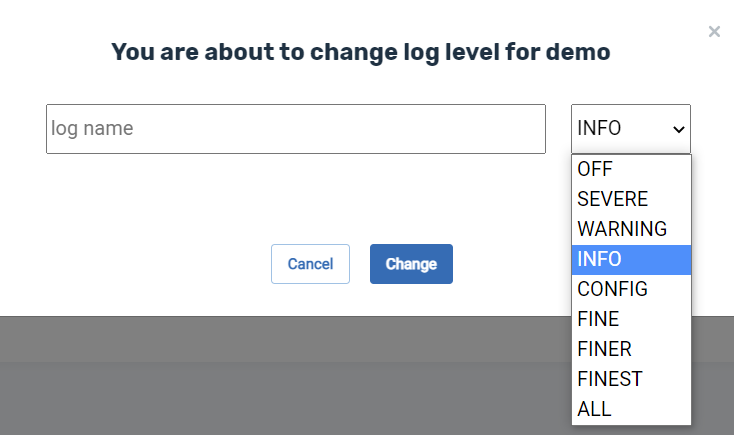
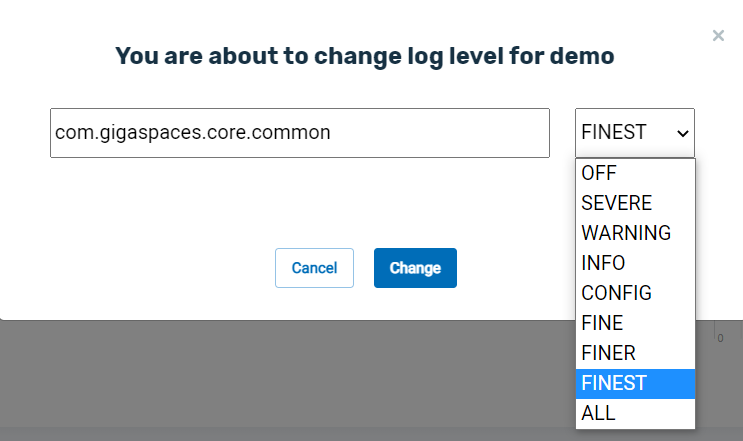
Add dynamic log change

diff --git a/site-flare/Content/admin/logging-overview.html b/site-flare/Content/admin/logging-overview.html
@@ -9,6 +9,9 @@
             <p>Some of the features discussed on this page are not part of the open-source edition, and are only available in the licensed editions (starting with <MadCap:variable name="General.ProductNameXAPPrem" />).</p>
         </div>
         <p><MadCap:variable name="General.ProductNameXAP" /> makes logging calls using the Java platform's core logging facilities. For a detailed explanation of the Java logging framework, refer to <a href="https://docs.oracle.com/javase/8/docs/technotes/guides/logging/overview.html" target="_blank">Java Logging Overview</a> on the Oracle website.</p>
+        <div class="tc-admon-tip">
+            <p>Logging options can be defined during <MadCap:xref href="#configuration">Configuration</MadCap:xref>, and changed dynamically at <MadCap:xref href="#logging-management-at-runtime" class="rt">Runtime</MadCap:xref>.</p>
+        </div>
         <h1><a name="configuration"></a>Configuration</h1>
         <p>The logging configuration is initialized using a configuration file that is read at startup. This configuration file is in the standard <code>java.util.Properties</code> format. It configures custom versions of both <code>java.util.logging.Handler</code> and <code>java.util.logging.Formatter</code>, and default levels for frequently used loggers (categories).</p>
         <h2><a name="default-configuration"></a>Default Configuration</h2>
@@ -61,6 +64,83 @@ export <MadCap:variable name="General.EnvVariablePrefix" />_LOGS_CONFIG_FILE=myf
         <p>The stack trace of a <code>java.lang.RuntimeException</code> is always be logged, regardless of the level definition.</p>
         <h1><a name="logging-management-at-runtime"></a>Logging Management at Runtime</h1>
         <p>You can change various logger level settings while the system is up and running, without having to restart. This can be very useful in production environments when you have to troubleshoot the system, but cannot restart it.</p>
+        <div MadCap:conditions="Version.15-8-born">
+            <h2>Runtime Logging Management via Ops Manager/Command Line/REST-API</h2>
+            <p>The logging options can be changed dynamically via one of the following approaches:</p>
+            <div class="easyui-tabs" plain="true" data-options="" MadCap:conditions="NewSet.JustAColorForDivs">
+                <div title="GigaSpaces Ops Manager" style="padding:10px" MadCap:conditions="Version.15-0-born">
+                    <p>Click the card in the Services area of the Cluster overview page. On the top right of the screen, click on the three-dot menu. The following popup will appear:</p>
+                    <p>
+                        <img src="../Resources/Static/images/ops-manager-change-log-level.png" />
+                    </p>
+                    <p>Click Change Log Level, and the following popup will appear:</p>
+                    <p>
+                        <img src="../Resources/Static/images/ops-manager-log-levels.png" />
+                    </p>
+                    <p>In this example, <code class="language-bash">com.gigaspaces.core.common</code> is the name of the log file that you wish to change. You can see the list of log files in <MadCap:variable name="General.HomePath" />/config/log/xap_logging.properties </p>
+                    <p>The dropdown list allows you to choose a logging level. In this example, the new logging level is <b>FINEST</b>. Click <a href="https://docs.oracle.com/en/java/javase/15/docs/api/java.logging/java/util/logging/class-use/Level.html">here</a> for information on logging levels. </p>
+                </div>
+                <div title="Command Line Interface" style="padding:10px">
+                    <p><span class="tc-italic">Command example:</span>
+                    </p>
+                    <p><code>gs logger set-level --service=demo com.gigaspaces.core.common FINE</code>
+                    </p>
+                    <p><span class="tc-italic">Description:</span>
+                    </p>
+                    <p>For the log file for service <code class="language-bash">demo com.gigaspaces.core.common</code>, set the log level to FINE..</p>
+                </div>
+                <div title="REST Manager API" style="padding:10px">
+                    <p><span class="tc-italic">Path</span>
+                    </p>
+                    <p><code>POST/pus/{id}/log-level</code>
+                    </p>
+                    <p><span class="tc-italic">Description</span>
+                    </p>
+                    <p>Dynamically change the logging level for a log file used by a service.</p>
+                    <p><span class="tc-italic">Example Request</span>
+                    </p><pre><code class="language-bash">curl -X POST --header 'Accept: application/json' 'http://localhost:8090/v2/pus?id=demo&amp;log=com.gigaspaces.core.common&amp;level=FINEST'
+</code></pre>
+                    <p>This example changes the logging level for the log file  <span class="tc-bold">com.gigaspaces.core.common</span> in service <span class="tc-bold">demo</span> to <span class="tc-bold">FINEST</span>.</p>
+                    <p><span class="tc-italic">Options:</span>
+                    </p>
+                    <table>
+                        <col />
+                        <col />
+                        <col />
+                        <col />
+                        <thead>
+                            <tr>
+                                <th>Option</th>
+                                <th>Description</th>
+                                <th>Sample Data</th>
+                                <th>Required</th>
+                            </tr>
+                        </thead>
+                        <tbody>
+                            <tr>
+                                <td>id</td>
+                                <td>The name of the service that contains the log you are modifying</td>
+                                <td>demo</td>
+                                <td>Yes</td>
+                            </tr>
+                            <tr>
+                                <td>log</td>
+                                <td>The name of the log file you wish to change — see the list of log files in <MadCap:variable name="General.HomePath" />/config/log/xap_logging.properties </td>
+                                <td>com.gigaspaces.core.common</td>
+                                <td>Yes</td>
+                            </tr>
+                            <tr>
+                                <td>level</td>
+                                <td>The new logging level. Click <a href="https://docs.oracle.com/en/java/javase/15/docs/api/java.logging/java/util/logging/class-use/Level.html">here</a> for information on logging levels.</td>
+                                <td>FINEST</td>
+                                <td>Yes</td>
+                            </tr>
+                        </tbody>
+                    </table>
+                </div>
+            </div>
+            <h2 MadCap:conditions="Version.15-8-born">Runtime Logging Management via JMX</h2>
+        </div>
         <p>To do this, connect to the JMX Bean of the Java logging facility via a monitoring tool such as JConsole. You can start JConsole for a specific running GSC or GSM using the <MadCap:variable name="General.CompanyName" /> Management Center (<code>&lt;product&gt;\bin\gs-ui.sh(bat)</code>).</p>
         <MadCap:snippetBlock src="../Resources/Snippets/Content/GS-UI-deprecate.flsnp" MadCap:conditions="Version.15-0-born" />
         <p><span class="tc-bold">To change the logging level in JConsole</span>
@@ -98,7 +178,7 @@ export <MadCap:variable name="General.EnvVariablePrefix" />_LOGS_CONFIG_FILE=myf
             </li>
         </ul>
         <h1><a name="logging-level"></a>Logging Level</h1>
-        <p>The <a href="http://docs.oracle.com/javase/[%=Versions.java-version%]/docs/api/java/util/logging/Level.html" target="_blank">logging level</a> class defines a set of standard logging levels that can be used to control logging output. The logging levels are ordered, and are specified by ordered integers/constants.</p>
+        <p>The <a href="https://docs.oracle.com/en/java/javase/[%=Versions.java-version%]/docs/api/java.logging/java/util/logging/Level.html" target="_blank">logging level</a> class defines a set of standard logging levels that can be used to control logging output. The logging levels are ordered, and are specified by ordered integers/constants.</p>
         <div class="tc-admon-note">
             <p>Enabling logging at a given level also enables logging at all higher levels.</p>
         </div>
